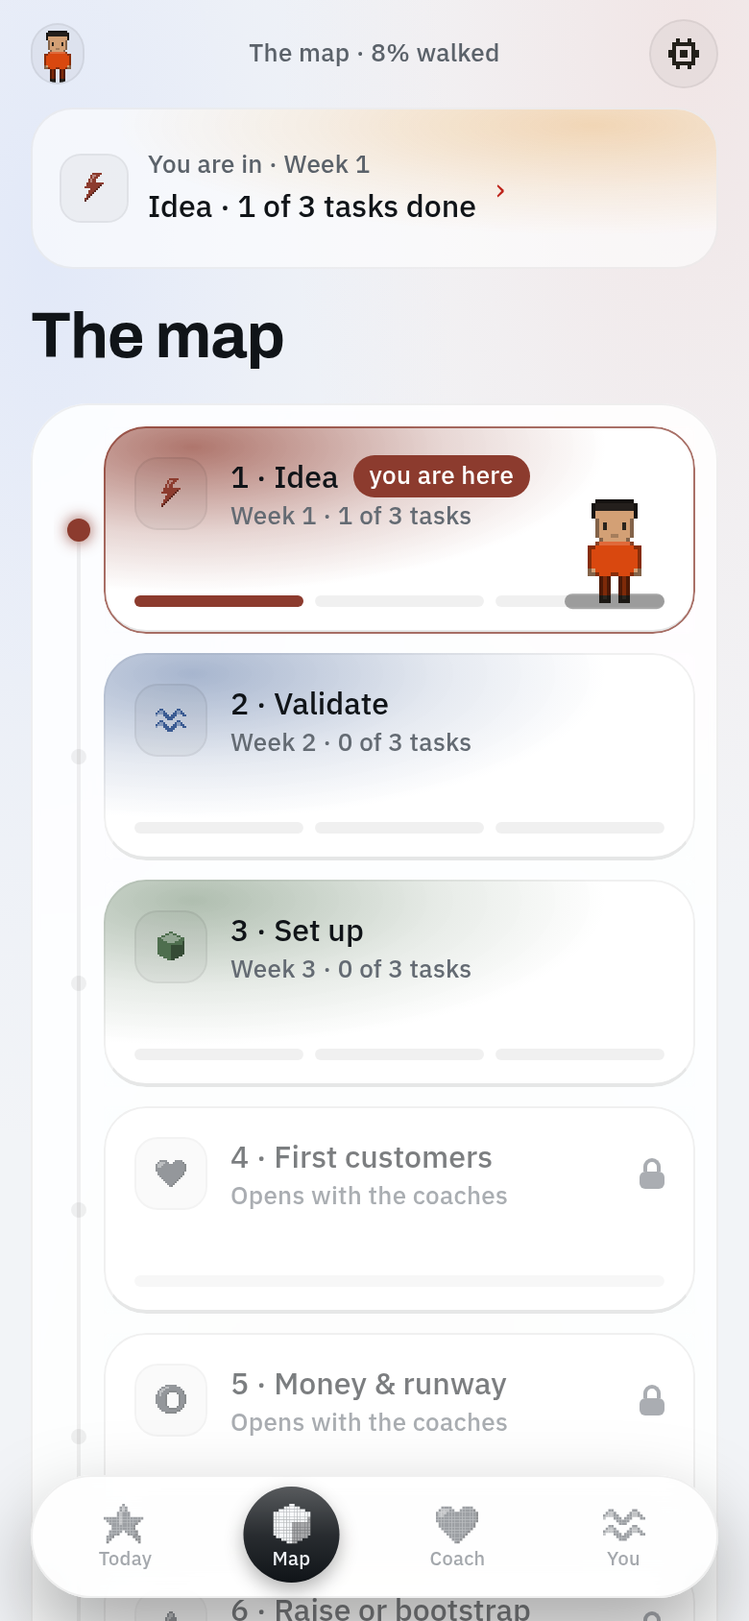
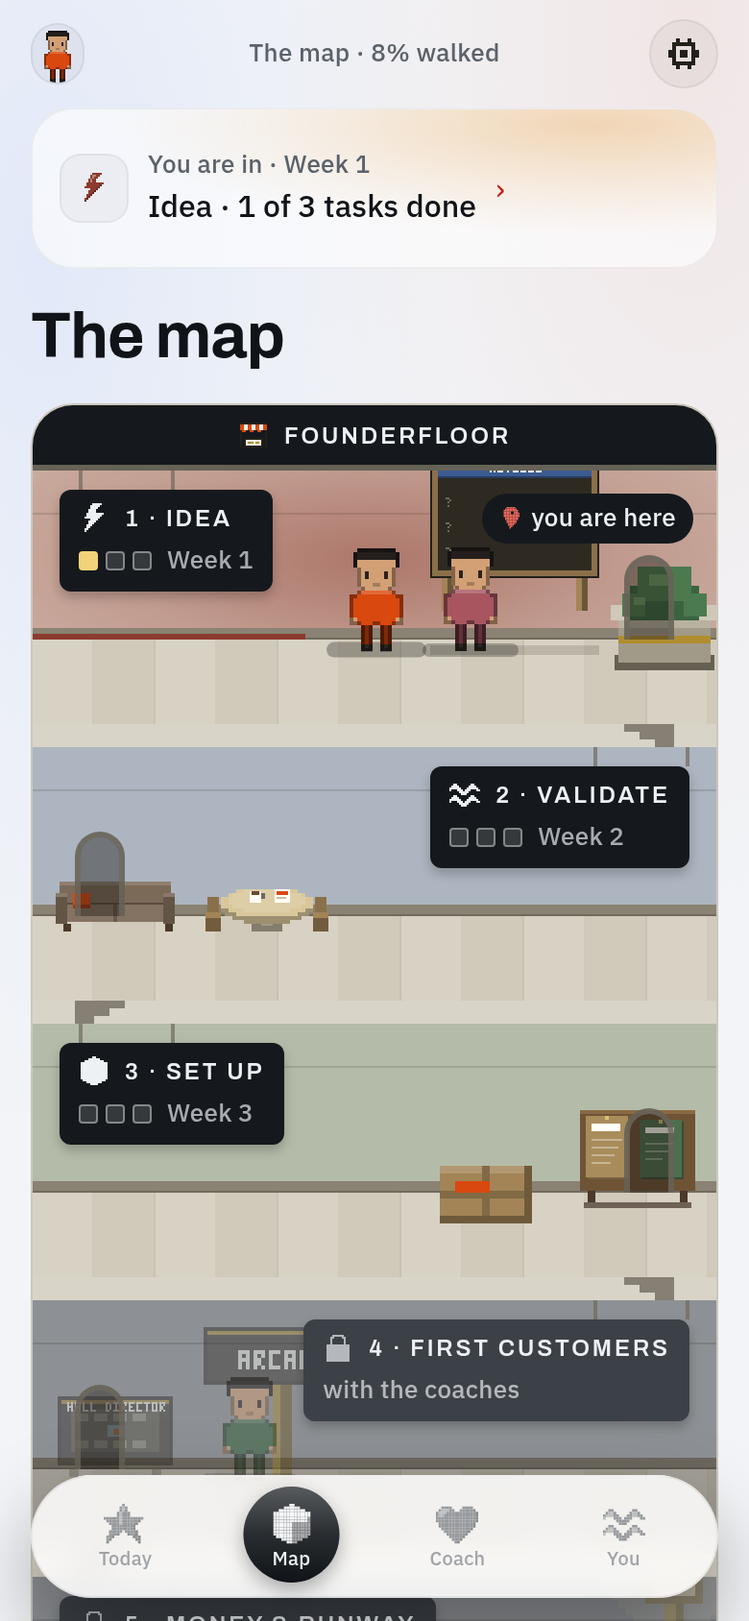
The building is the map again, drawn to be the front page
The cross-section is back and finished: six rooms as floors under a
rooftop sign with the mark, each with its wall in the room's colour, a
picture rail, the tiled floor, furniture standing on it, a sign hung on
two chains with the room's pictogram, its name in signage lettering and
one window per task lit when done; a stair to the next floor; the
founder's keeper in the room they are in, walking the stairs when the
week moves on; the coaches standing in the rooms they own (Ines in
Idea, Jonah with the first customers, Theo in Money, Margot at Raise);
a warm lamp breathing slowly in the current room; a "you are here" pin;
locked rooms in the dark under a lock; a street with a lamp, a planter
and the hall's name underneath. It sits in its own frame as the page's
hero, not inside a card. DESIGN.md names it the one place the app is a
picture.

Claude-Session: https://claude.ai/code/session_01SDvkqNwgttwVgCmKyx8Duu

diff --git a/packages/ui/src/Building.tsx b/packages/ui/src/Building.tsx
@@ -1,22 +1,26 @@
 /**
- * THE BUILDING — the map as a tower of glass floors. Six rooms stacked
- * from the top, each a pane lit in its own colour, with the room's glyph,
- * its name, how far along it is, and one small window per task the plan
- * has put there, lit when the task is done. A lift shaft runs down the
- * left with a lamp on each floor; the founder's keeper stands on the
- * floor of the room they are in and rides down when the week moves on.
- * Rooms past the gate sit dark under a "with the coaches" line.
+ * THE BUILDING — the map as a cross-section of the hall, the way a
+ * dollhouse shows every room at once. Six rooms stacked as floors under
+ * a rooftop sign, each drawn the way the rest of the pixel world is: a
+ * wall in the room's colour, the tiled floor, real furniture standing on
+ * it, a sign hung from the ceiling on two chains with the room's name
+ * and one small window per task the plan put there, lit when the task is
+ * done. A stair on alternating sides joins each floor to the next. The
+ * founder's keeper stands in the room they are in and walks the stairs
+ * when the week moves on; the coaches stand in the rooms they own. A
+ * warm lamp breathes in the room you are in. Rooms past the gate sit in
+ * the dark under a "with the coaches" sign. A street runs under it all.
  */
 import { useEffect, useRef, useState } from "react";
 import { Pressable, View, type LayoutChangeEvent } from "react-native";
 import Animated, { Easing, cancelAnimation, runOnJS, useAnimatedStyle, useReducedMotion, useSharedValue, withRepeat, withSequence, withTiming } from "react-native-reanimated";
 import { Sprite, spriteMeta, type SpriteId } from "./Sprite";
 import { SpriteCycle } from "./SpriteCycle";
-import { Plate } from "./Plate";
+import { Backdrop } from "./Scene";
+import { PixelIcon, type PixelIconId } from "./PixelIcon";
 import { Glow } from "./Stage";
-import { GlyphTile } from "./Scene";
-import { Body, Spec } from "./Text";
-import { curve, shell } from "./tokens";
+import { Signage, Spec } from "./Text";
+import { art, curve } from "./tokens";
 import { alpha, scheme } from "./theme";
 import type { Look } from "./Keeper";
 import type { GlyphId } from "./Sign";
@@ -28,7 +32,7 @@ export interface BuildingRoom {
   glyph: GlyphId;
   /** The plan's tasks that live in this room, one window each. */
   tasks: { text: string; done: boolean }[];
-  /** Which week(s) of the plan are spent here: "WEEK 1". */
+  /** Which week(s) of the plan are spent here: "Week 1". */
   week?: string;
   /** The room's own list: "0 of 5 on the list". */
   meta: string;
@@ -37,79 +41,187 @@ export interface BuildingRoom {
   locked: boolean;
 }
 
-const H = 108; // one floor
-const GAP = 10; // between floors
-const SHAFT = 26; // the lift shaft on the left
+/** A member of staff standing in a room. */
+export interface BuildingStaff {
+  floor: number;
+  look: Look;
+  name: string;
+}
+
+const H = 132; // one floor
+const FLOOR = 44; // the tiled part
+const GAP = 12; // the slab between floors
+const ROOF = 34; // the rooftop sign
+const STREET = 58; // the pavement under the building
 const SCALE = 2;
+
+/** What stands in each room, as fractions of the width; the sign hangs on the other side, so nothing hides behind it. */
+const FURNITURE: { id: SpriteId; x: number }[][] = [
+  [{ id: "prop-notice-board", x: 0.7 }, { id: "prop-planter", x: 0.92 }],
+  [{ id: "prop-sofa", x: 0.12 }, { id: "prop-table", x: 0.34 }],
+  [{ id: "prop-crates", x: 0.66 }, { id: "prop-board", x: 0.88 }],
+  [{ id: "prop-kiosk", x: 0.12 }, { id: "prop-sign", x: 0.36 }],
+  [{ id: "prop-bar", x: 0.7 }, { id: "prop-lamp", x: 0.93 }],
+  [{ id: "prop-tree", x: 0.1 }, { id: "prop-bench", x: 0.34 }],
+];
+const SIGN_BG = "#15191D";
+const SIGN_TEXT = "#EDF0F4";
+const SIGN_QUIET = "rgba(237,240,244,0.68)";
 
 function rgba(hex: string, a: number): string {
   const n = parseInt(hex.replace("#", ""), 16);
   return `rgba(${(n >> 16) & 255},${(n >> 8) & 255},${n & 255},${a})`;
 }
 
-export function Building({ rooms, here, look, onPress }: { rooms: BuildingRoom[]; here: number; look: Look; onPress: (i: number) => void }) {
+export function Building({ rooms, here, look, staff = [], onPress }: { rooms: BuildingRoom[]; here: number; look: Look; staff?: BuildingStaff[]; onPress: (i: number) => void }) {
   const [w, setW] = useState(340);
-  const height = rooms.length * H + (rooms.length - 1) * GAP;
+  const dark = scheme() === "dark";
+  const floors = rooms.length * H + (rooms.length - 1) * GAP;
   return (
-    <View onLayout={(e: LayoutChangeEvent) => setW(Math.round(e.nativeEvent.layout.width))} style={{ height, position: "relative" }} accessibilityRole="list">
-      {/* the lift shaft: a hairline down the left with a lamp on each floor */}
-      <View pointerEvents="none" style={{ position: "absolute", left: SHAFT / 2 - 1, top: H / 2, bottom: H / 2, width: 2, backgroundColor: alpha.hairline() }} />
-      {rooms.map((r, i) => (
-        <Room key={r.id} r={r} i={i} width={w} here={i === here} onPress={() => onPress(i)} />
-      ))}
-      <Keeper look={look} here={here} width={w} />
+    <View onLayout={(e: LayoutChangeEvent) => setW(Math.round(e.nativeEvent.layout.width))} style={{ borderRadius: 22, overflow: "hidden", backgroundColor: dark ? "#0E1216" : "#D9D4C8", borderWidth: 1, borderColor: alpha.hairline() }} accessibilityRole="list">
+      {/* the roof: the hall's name on a sign, under a parapet */}
+      <View style={{ height: ROOF, backgroundColor: SIGN_BG, flexDirection: "row", alignItems: "center", justifyContent: "center", gap: 8, borderBottomWidth: 3, borderBottomColor: rgba(art.floors["main-hall"].trim, 0.9) }}>
+        <Sprite id="logo-mark" scale={1} />
+        <Signage style={{ color: SIGN_TEXT }}>FounderFloor</Signage>
+      </View>
+      <View style={{ height: floors, position: "relative" }}>
+        {rooms.map((r, i) => (
+          <Room key={r.id} r={r} i={i} width={w} here={i === here} last={i === rooms.length - 1} dark={dark} staff={staff.filter((s) => s.floor === i)} onPress={() => onPress(i)} />
+        ))}
+        <Keeper look={look} here={here} width={w} />
+      </View>
+      {/* the street: pavement, a lamp and a planter, the way in */}
+      <View style={{ height: STREET, position: "relative", overflow: "hidden" }}>
+        <View pointerEvents="none" style={{ position: "absolute", left: 0, right: 0, top: 0, height: 4, backgroundColor: rgba(art.floors["main-hall"].trim, dark ? 0.95 : 0.8) }} />
+        <Backdrop hall="main-hall" floorH={STREET - 4} scale={SCALE} width={w} wall={false} />
+        <View pointerEvents="none" style={{ position: "absolute", left: Math.round(w * 0.08), bottom: 6 }}>
+          <Sprite id="prop-lamp" scale={1} />
+        </View>
+        <View pointerEvents="none" style={{ position: "absolute", right: Math.round(w * 0.08), bottom: 8 }}>
+          <Sprite id="prop-planter" scale={1} />
+        </View>
+        <View pointerEvents="none" style={{ position: "absolute", left: 0, right: 0, bottom: 10, alignItems: "center" }}>
+          <View style={{ backgroundColor: SIGN_BG, borderRadius: 6, paddingHorizontal: 10, paddingVertical: 5 }}>
+            <Spec style={{ color: SIGN_QUIET }}>Main Hall · six rooms, one road</Spec>
+          </View>
+        </View>
+        {dark ? <View pointerEvents="none" style={{ position: "absolute", left: 0, right: 0, top: 0, bottom: 0, backgroundColor: "rgba(0,0,0,0.45)" }} /> : null}
+      </View>
     </View>
   );
 }
 
-function Room({ r, i, width, here, onPress }: { r: BuildingRoom; i: number; width: number; here: boolean; onPress: () => void }) {
-  const dark = scheme() === "dark";
-  const lamp = r.locked ? alpha.hairline() : r.done ? shell.verify : here ? r.color : alpha.hairline();
+/** The warm lamp in the room you are in, breathing slowly. */
+function Lamp({ color }: { color: string }) {
+  const reduced = useReducedMotion();
+  const o = useSharedValue(1);
+  useEffect(() => {
+    if (reduced) return;
+    o.value = withRepeat(withSequence(withTiming(0.72, { duration: 1700, easing: Easing.inOut(Easing.quad) }), withTiming(1, { duration: 1700, easing: Easing.inOut(Easing.quad) })), -1, false);
+    return () => cancelAnimation(o);
+  }, [reduced, o]);
+  const a = useAnimatedStyle(() => ({ opacity: o.value }));
   return (
-    <View style={{ position: "absolute", left: 0, right: 0, top: i * (H + GAP), height: H, flexDirection: "row", alignItems: "center" }}>
-      {/* the lamp on the shaft */}
-      <View pointerEvents="none" style={{ width: SHAFT, alignItems: "center" }}>
-        <View style={{ width: here ? 12 : 8, height: here ? 12 : 8, borderRadius: 6, backgroundColor: lamp, shadowColor: lamp, shadowOpacity: here ? 0.9 : 0, shadowRadius: 8, shadowOffset: { width: 0, height: 0 } }} />
-      </View>
-      <Pressable onPress={onPress} accessibilityRole="button" accessibilityLabel={`${r.name}, ${r.locked ? "locked" : r.done ? "done" : r.tasks.length ? `${r.tasks.filter((t) => t.done).length} of ${r.tasks.length} tasks` : r.meta}${here ? ", you are here" : ""}`} style={({ pressed }) => ({ flex: 1, opacity: pressed ? 0.92 : 1 })}>
-        <Plate tone="panel" radius={22} contentStyle={{ height: H }} ring={here && !r.locked ? rgba(r.color, 0.7) : undefined}>
-          <View style={{ height: H, paddingHorizontal: 16, paddingVertical: 14, justifyContent: "space-between", opacity: r.locked ? 0.55 : 1 }}>
-            {!r.locked ? <Glow color={r.color} x={0.15} y={0.1} r={0.7} strength={r.done ? 0.35 : here ? 0.7 : 0.45} /> : null}
-            <View style={{ flexDirection: "row", alignItems: "center", gap: 12 }}>
-              <GlyphTile id={r.done ? "star" : r.glyph} color={r.locked ? undefined : r.color} size={38} scale={2} />
-              <View style={{ flex: 1, minWidth: 0 }}>
-                <View style={{ flexDirection: "row", alignItems: "center", gap: 8 }}>
-                  <Body medium numberOfLines={1} style={{ flexShrink: 1 }}>{`${i + 1} · ${r.name}`}</Body>
-                  {here && !r.locked ? (
-                    <View style={{ backgroundColor: r.color, borderRadius: 999, paddingHorizontal: 8, paddingVertical: 2 }}>
-                      <Spec style={{ color: "#FFFFFF" }}>you are here</Spec>
-                    </View>
-                  ) : null}
-                </View>
-                <Spec tone="faint" numberOfLines={1}>{r.locked ? "Opens with the coaches" : r.done ? "Done" : r.tasks.length ? `${r.week ?? ""} · ${r.tasks.filter((t) => t.done).length} of ${r.tasks.length} tasks` : r.meta}</Spec>
-              </View>
-              {r.locked ? <Lock /> : null}
+    <Animated.View pointerEvents="none" style={[{ position: "absolute", left: 0, right: 0, top: 0, bottom: 0 }, a]}>
+      <Glow color={color} x={0.5} y={0.35} r={0.6} strength={0.55} />
+    </Animated.View>
+  );
+}
+
+function Room({ r, i, width, here, last, dark, staff, onPress }: { r: BuildingRoom; i: number; width: number; here: boolean; last: boolean; dark: boolean; staff: BuildingStaff[]; onPress: () => void }) {
+  const signLeft = i % 2 === 0;
+  const f = art.floors["main-hall"];
+  const wallTone = r.locked ? (dark ? "#23262A" : "#B9BCC0") : rgba(r.color, dark ? 0.5 : 0.34);
+  const wallBase = dark ? "#33373C" : "#E9E4D8";
+  return (
+    <View style={{ position: "absolute", left: 0, right: 0, top: i * (H + GAP), height: H + (last ? 0 : GAP) }}>
+      <Pressable onPress={onPress} accessibilityRole="button" accessibilityLabel={`${r.name}, ${r.locked ? "locked" : r.done ? "done" : r.tasks.length ? `${r.tasks.filter((t) => t.done).length} of ${r.tasks.length} tasks` : r.meta}${here ? ", you are here" : ""}`} style={({ pressed }) => ({ height: H, overflow: "hidden", backgroundColor: wallBase, opacity: pressed ? 0.92 : 1 })}>
+        {/* the wall, painted in the room's colour, and the floor */}
+        <View pointerEvents="none" style={{ position: "absolute", left: 0, right: 0, top: 0, bottom: FLOOR, backgroundColor: wallTone }} />
+        {/* a hairline of picture rail on the wall */}
+        <View pointerEvents="none" style={{ position: "absolute", left: 0, right: 0, top: 22, height: 1, backgroundColor: "rgba(0,0,0,0.12)" }} />
+        {here && !r.locked ? <Lamp color={r.color} /> : null}
+        <Backdrop hall="main-hall" floorH={FLOOR} scale={SCALE} width={width} />
+        {r.locked ? <View pointerEvents="none" style={{ position: "absolute", left: 0, right: 0, top: 0, bottom: 0, backgroundColor: dark ? "rgba(0,0,0,0.55)" : "rgba(40,44,48,0.3)" }} /> : null}
+
+        {/* furniture, standing on the floor */}
+        {(FURNITURE[i % FURNITURE.length] ?? []).map((p) => {
+          const m = spriteMeta(p.id);
+          const s = m.w > 40 ? 1 : SCALE;
+          return (
+            <View key={p.id} pointerEvents="none" style={{ position: "absolute", left: Math.round(p.x * width - (m.w * s) / 2), bottom: FLOOR - 8 * s, opacity: r.locked ? 0.4 : 1 }}>
+              <Sprite id={p.id} scale={s as 1 | 2} />
             </View>
-            {/* the windows: one per task, lit when done; else the room's own progress as a strip of light */}
-            {!r.locked && r.tasks.length ? (
-              <View style={{ flexDirection: "row", gap: 6, alignItems: "center" }}>
+          );
+        })}
+
+        {/* the staff who work here */}
+        {staff.map((s, k) => {
+          const id = `avatar-outfit${s.look.outfit % 8}-down-0` as SpriteId;
+          const x = Math.round(width * (signLeft ? 0.58 : 0.26)) + k * 30;
+          return (
+            <View key={s.name} pointerEvents="none" style={{ position: "absolute", left: x, bottom: FLOOR - 6, opacity: r.locked ? 0.5 : 1 }}>
+              <View style={{ position: "absolute", left: -5, right: -5, bottom: -3, height: 7, borderRadius: 999, backgroundColor: "rgba(0,0,0,0.25)" }} />
+              <Sprite id={id} scale={SCALE} accessibilityLabel={s.name} />
+            </View>
+          );
+        })}
+
+        {/* the sign, hung from the ceiling on two chains */}
+        <View pointerEvents="none" style={{ position: "absolute", top: 0, [signLeft ? "left" : "right"]: 14, alignItems: signLeft ? "flex-start" : "flex-end" }}>
+          <View style={{ flexDirection: "row", gap: 46, marginLeft: 10 }}>
+            <View style={{ width: 2, height: 10, backgroundColor: rgba(f.trim, 0.7) }} />
+            <View style={{ width: 2, height: 10, backgroundColor: rgba(f.trim, 0.7) }} />
+          </View>
+          <View style={{ backgroundColor: r.locked ? "#3C4147" : r.done ? r.color : SIGN_BG, borderRadius: 6, paddingHorizontal: 10, paddingVertical: 7, gap: 5, minWidth: 104, shadowColor: "#000", shadowOpacity: 0.22, shadowRadius: 6, shadowOffset: { width: 0, height: 3 }, elevation: 3 }}>
+            <View style={{ flexDirection: "row", alignItems: "center", gap: 8 }}>
+              <PixelIcon id={r.locked ? "lock" : r.done ? "stamp" : (r.glyph as PixelIconId)} color={r.locked ? SIGN_QUIET : r.done ? "#BE241B" : SIGN_TEXT} size={16} flat={!r.done} />
+              <Signage style={{ color: SIGN_TEXT }}>{`${i + 1} · ${r.name}`}</Signage>
+            </View>
+            {r.locked ? (
+              <Spec style={{ color: SIGN_QUIET }}>with the coaches</Spec>
+            ) : r.tasks.length ? (
+              <View style={{ flexDirection: "row", alignItems: "center", gap: 4 }}>
                 {r.tasks.map((t, k) => (
-                  <View key={k} style={{ flex: 1, height: 6, borderRadius: 3, backgroundColor: t.done ? r.color : alpha.hairline() }} />
+                  <View key={k} style={{ width: 10, height: 10, borderRadius: 2, backgroundColor: t.done ? "#F3D37A" : "rgba(255,255,255,0.14)", borderWidth: 1, borderColor: t.done ? "#F3D37A" : "rgba(255,255,255,0.4)" }} />
                 ))}
+                <Spec style={{ color: SIGN_QUIET, marginLeft: 4 }}>{r.week ?? ""}</Spec>
               </View>
             ) : (
-              <View style={{ height: 6, borderRadius: 3, backgroundColor: alpha.hairline(), overflow: "hidden" }}>
-                <View style={{ width: `${Math.round((r.done ? 1 : r.progress) * 100)}%`, height: 6, borderRadius: 3, backgroundColor: r.locked ? (dark ? "rgba(255,255,255,0.10)" : "rgba(0,0,0,0.08)") : r.done ? shell.verify : r.color }} />
-              </View>
+              <Spec style={{ color: SIGN_QUIET }}>{r.done ? "done" : r.meta}</Spec>
             )}
           </View>
-        </Plate>
+        </View>
+
+        {/* you are here, on the other side */}
+        {here && !r.locked ? (
+          <View pointerEvents="none" style={{ position: "absolute", top: 12, [signLeft ? "right" : "left"]: 12, backgroundColor: SIGN_BG, borderRadius: 999, paddingHorizontal: 9, paddingVertical: 4, flexDirection: "row", alignItems: "center", gap: 5 }}>
+            <PixelIcon id="pin" color="#E8665A" size={12} flat />
+            <Spec style={{ color: SIGN_TEXT }}>you are here</Spec>
+          </View>
+        ) : null}
+        {/* the way down: a doorway in the wall over the stair */}
+        {!last ? <View pointerEvents="none" style={{ position: "absolute", bottom: FLOOR, [signLeft ? "right" : "left"]: 22, width: 26, height: 44, borderTopLeftRadius: 13, borderTopRightRadius: 13, backgroundColor: dark ? "rgba(0,0,0,0.6)" : "rgba(30,26,22,0.42)", borderWidth: 3, borderBottomWidth: 0, borderColor: rgba(f.trim, 0.8) }} /> : null}
+
+        {/* the room's own progress, as a strip of light along the skirting */}
+        {!r.locked && r.progress > 0 && !r.done ? <View pointerEvents="none" style={{ position: "absolute", left: 0, bottom: FLOOR, height: 3, width: `${Math.round(r.progress * 100)}%`, backgroundColor: r.color }} /> : null}
       </Pressable>
+
+      {/* the slab, and the stair down to the next floor on the side away from the sign */}
+      {!last ? (
+        <View pointerEvents="none" style={{ height: GAP, backgroundColor: dark ? "#0E1216" : "#D9D4C8", flexDirection: signLeft ? "row-reverse" : "row", alignItems: "flex-start", paddingHorizontal: 22 }}>
+          <View style={{ flexDirection: "column" }}>
+            {[26, 18, 10].map((wd, k) => (
+              <View key={k} style={{ width: wd, height: Math.ceil(GAP / 3), backgroundColor: rgba(f.trim, dark ? 0.95 : 0.8), alignSelf: signLeft ? "flex-end" : "flex-start" }} />
+            ))}
+          </View>
+        </View>
+      ) : null}
     </View>
   );
 }
 
-/** The founder, standing on their floor at the right; rides down the tower when `here` moves. */
+/** The founder, standing in their room; walks down the stairs when `here` moves. */
 function Keeper({ look, here, width }: { look: Look; here: number; width: number }) {
   const reduced = useReducedMotion();
   const y = useSharedValue(0);
@@ -118,7 +230,7 @@ function Keeper({ look, here, width }: { look: Look; here: number; width: number
   const prev = useRef(here);
   const id0 = `avatar-outfit${look.outfit % 8}-down-0` as SpriteId;
   const m = spriteMeta(id0);
-  const topFor = (i: number) => i * (H + GAP) + H - 14 - m.h * SCALE;
+  const topFor = (i: number) => i * (H + GAP) + H - FLOOR + 8 - m.h * SCALE;
   useEffect(() => {
     const from = prev.current;
     prev.current = here;
@@ -128,36 +240,28 @@ function Keeper({ look, here, width }: { look: Look; here: number; width: number
       return;
     }
     setWalking(true);
-    y.value = withTiming(topFor(here), { duration: 500 + Math.abs(here - from) * 300, easing: Easing.bezier(...curve.inOut) }, (done) => {
+    y.value = withTiming(topFor(here), { duration: 500 + Math.abs(here - from) * 350, easing: Easing.bezier(...curve.inOut) }, (done) => {
       if (done) runOnJS(setWalking)(false);
     });
     // eslint-disable-next-line react-hooks/exhaustive-deps
   }, [here, reduced]);
   useEffect(() => {
     if (!walking) {
-      bob.value = reduced ? 0 : withRepeat(withSequence(withTiming(-2, { duration: 800, easing: Easing.inOut(Easing.quad) }), withTiming(0, { duration: 800, easing: Easing.inOut(Easing.quad) })), -1, false);
+      bob.value = reduced ? 0 : withRepeat(withSequence(withTiming(-2, { duration: 900, easing: Easing.inOut(Easing.quad) }), withTiming(0, { duration: 900, easing: Easing.inOut(Easing.quad) })), -1, false);
       return () => cancelAnimation(bob);
     }
     cancelAnimation(bob);
     bob.value = 0;
   }, [walking, reduced, bob]);
   const style = useAnimatedStyle(() => ({ transform: [{ translateY: y.value + bob.value }] }));
-  const x = Math.round(width - 22 - m.w * SCALE);
+  const x = Math.round(width * 0.5 - (m.w * SCALE) / 2);
   const ids = [0, 1, 2].map((k) => `avatar-outfit${look.outfit % 8}-down-${k}` as SpriteId);
   return (
     <Animated.View pointerEvents="none" style={[{ position: "absolute", left: x, top: 0 }, style]}>
-      <View style={{ position: "absolute", left: -6, right: -6, bottom: -3, height: 8, borderRadius: 999, backgroundColor: "rgba(0,0,0,0.35)" }} />
+      <View style={{ position: "absolute", left: -6, right: -6, bottom: -3, height: 8, borderRadius: 999, backgroundColor: "rgba(0,0,0,0.28)" }} />
       <SpriteCycle ids={ids} playing={walking} period={150} scale={SCALE} />
     </Animated.View>
   );
 }
 
-function Lock() {
-  const c = shell.faint;
-  return (
-    <View style={{ alignItems: "center", width: 14 }}>
-      <View style={{ width: 9, height: 7, borderWidth: 2, borderBottomWidth: 0, borderColor: c, borderTopLeftRadius: 5, borderTopRightRadius: 5 }} />
-      <View style={{ width: 13, height: 9, borderRadius: 3, backgroundColor: c }} />
-    </View>
-  );
-}
+

diff --git a/apps/mobile/src/app/(tabs)/build.tsx b/apps/mobile/src/app/(tabs)/build.tsx
@@ -30,6 +30,8 @@ import { askGuide, whereAmI } from "@founderfloor/shared";
 import { COACHES } from "../../lib/mock";
 
 const DOOR = STAGES.map((s) => ROOM_COLOR[s.id]);
+/** Who works where: Ines in Idea, Jonah with the first customers, Theo in Money, Margot at Raise. */
+const STAFF = [{ floor: 0, id: "strategy" }, { floor: 3, id: "sales" }, { floor: 4, id: "finance" }, { floor: 5, id: "investor" }].map((s) => { const c = COACHES.find((x) => x.id === s.id)!; return { floor: s.floor, look: c.look, name: c.name }; });
 
 export default function Build() {
   const L = useLayout();
@@ -141,16 +143,14 @@ export default function Build() {
         </Scene>
         <Display size={L.compact ? "3xl" : "4xl"}>The map</Display>
         {guided ? <Hint id="map" text={plan ? "The building, floor by floor. Your plan's weeks are spent in these rooms; the windows on a sign are that week's tasks. Tap a room to open it." : "Six rooms, floor by floor. Tap the room you are in to see what to do there and tick what is done."} /> : null}
-        <Plate tone="panel" radius={radius.xxl} padding={12}>
-          <TourTarget id="map" style={{ borderRadius: 20, overflow: "hidden" }}>
-            <Building rooms={rooms} here={hereIndex} look={stand.look} onPress={(i) => void openRoom(STAGES[i])} />
-          </TourTarget>
-          {!opened ? (
-            <Spec tone="faint" style={{ marginTop: 4 }}>
-              {`Rooms 1 to ${FREE_ROOMS} are every founder's. The last three open with your free week with the whole staff.`}
-            </Spec>
-          ) : null}
-        </Plate>
+        <TourTarget id="map" style={{ borderRadius: 22, overflow: "hidden" }}>
+          <Building rooms={rooms} here={hereIndex} look={stand.look} staff={STAFF} onPress={(i) => void openRoom(STAGES[i])} />
+        </TourTarget>
+        {!opened ? (
+          <Spec tone="faint">
+            {`Rooms 1 to ${FREE_ROOMS} are every founder's. The last three open with your free week with the whole staff.`}
+          </Spec>
+        ) : null}
         <Plate tone="panel" radius={radius.xl} padding={16}>
           <View style={{ flexDirection: "row", justifyContent: "space-between", alignItems: "baseline" }}>
             <Body medium>Your trail</Body>

diff --git a/packages/ui/src/index.ts b/packages/ui/src/index.ts
@@ -42,7 +42,7 @@ export { Door } from "./Door";
 export { Stage, Glow, wash, type Mood } from "./Stage";
 export { Ground, hallLights, type Light } from "./Ground";
 export { Sparks } from "./Sparks";
-export { Building, type BuildingRoom } from "./Building";
+export { Building, type BuildingRoom, type BuildingStaff } from "./Building";
 export { Calendar } from "./Calendar";
 export { Scene, Backdrop, Furniture, Glyph, GlyphTile, SCENE_SETS, type SceneSet, type SceneProp, type Hall } from "./Scene";
 export { applyScheme, scheme, alpha, LIGHT, DARK, type Scheme } from "./theme";

diff --git a/DESIGN.md b/DESIGN.md
@@ -78,7 +78,7 @@ The unit is 4. Cards pad 16 or 20; sections breathe 24; the page gutter is 20 on
 
 The pixel keepers (20 by 28, at 2x or 3x), the desk, the coaches and the founder's own keeper stay exactly as drawn. They stand on glass, never on tiled floors: a keeper appears in a `Stage` (a glass card with a soft glow in the keeper's colour, the figure at 3x, a clean speech bubble) or as a `Keeper` chip beside a message. The pixel glyphs stay as the icon set (they are drawn in one stroke and read at 12 and 24); they sit in `GlyphTile` wells tinted with their colour.
 
-The tiled room scenes and walking crowds of the first world are retired from page headers. They may return inside the map's floors and the stand's own card, where a room is the subject.
+The tiled room scenes and walking crowds of the first world are retired from page headers. The map is the exception and the hero: the building as a cross-section, six rooms as floors under a rooftop sign, each with its wall in the room's colour, its tiled floor, furniture, a sign hung on chains with a pictogram and one window per task, a stair to the next floor, the founder's keeper in the room they are in, the coaches in the rooms they own, a warm lamp breathing in the current room, and a street underneath. It is the one place the app is a picture, and it is drawn entirely in the pixel world.
 
 ## The road
 
